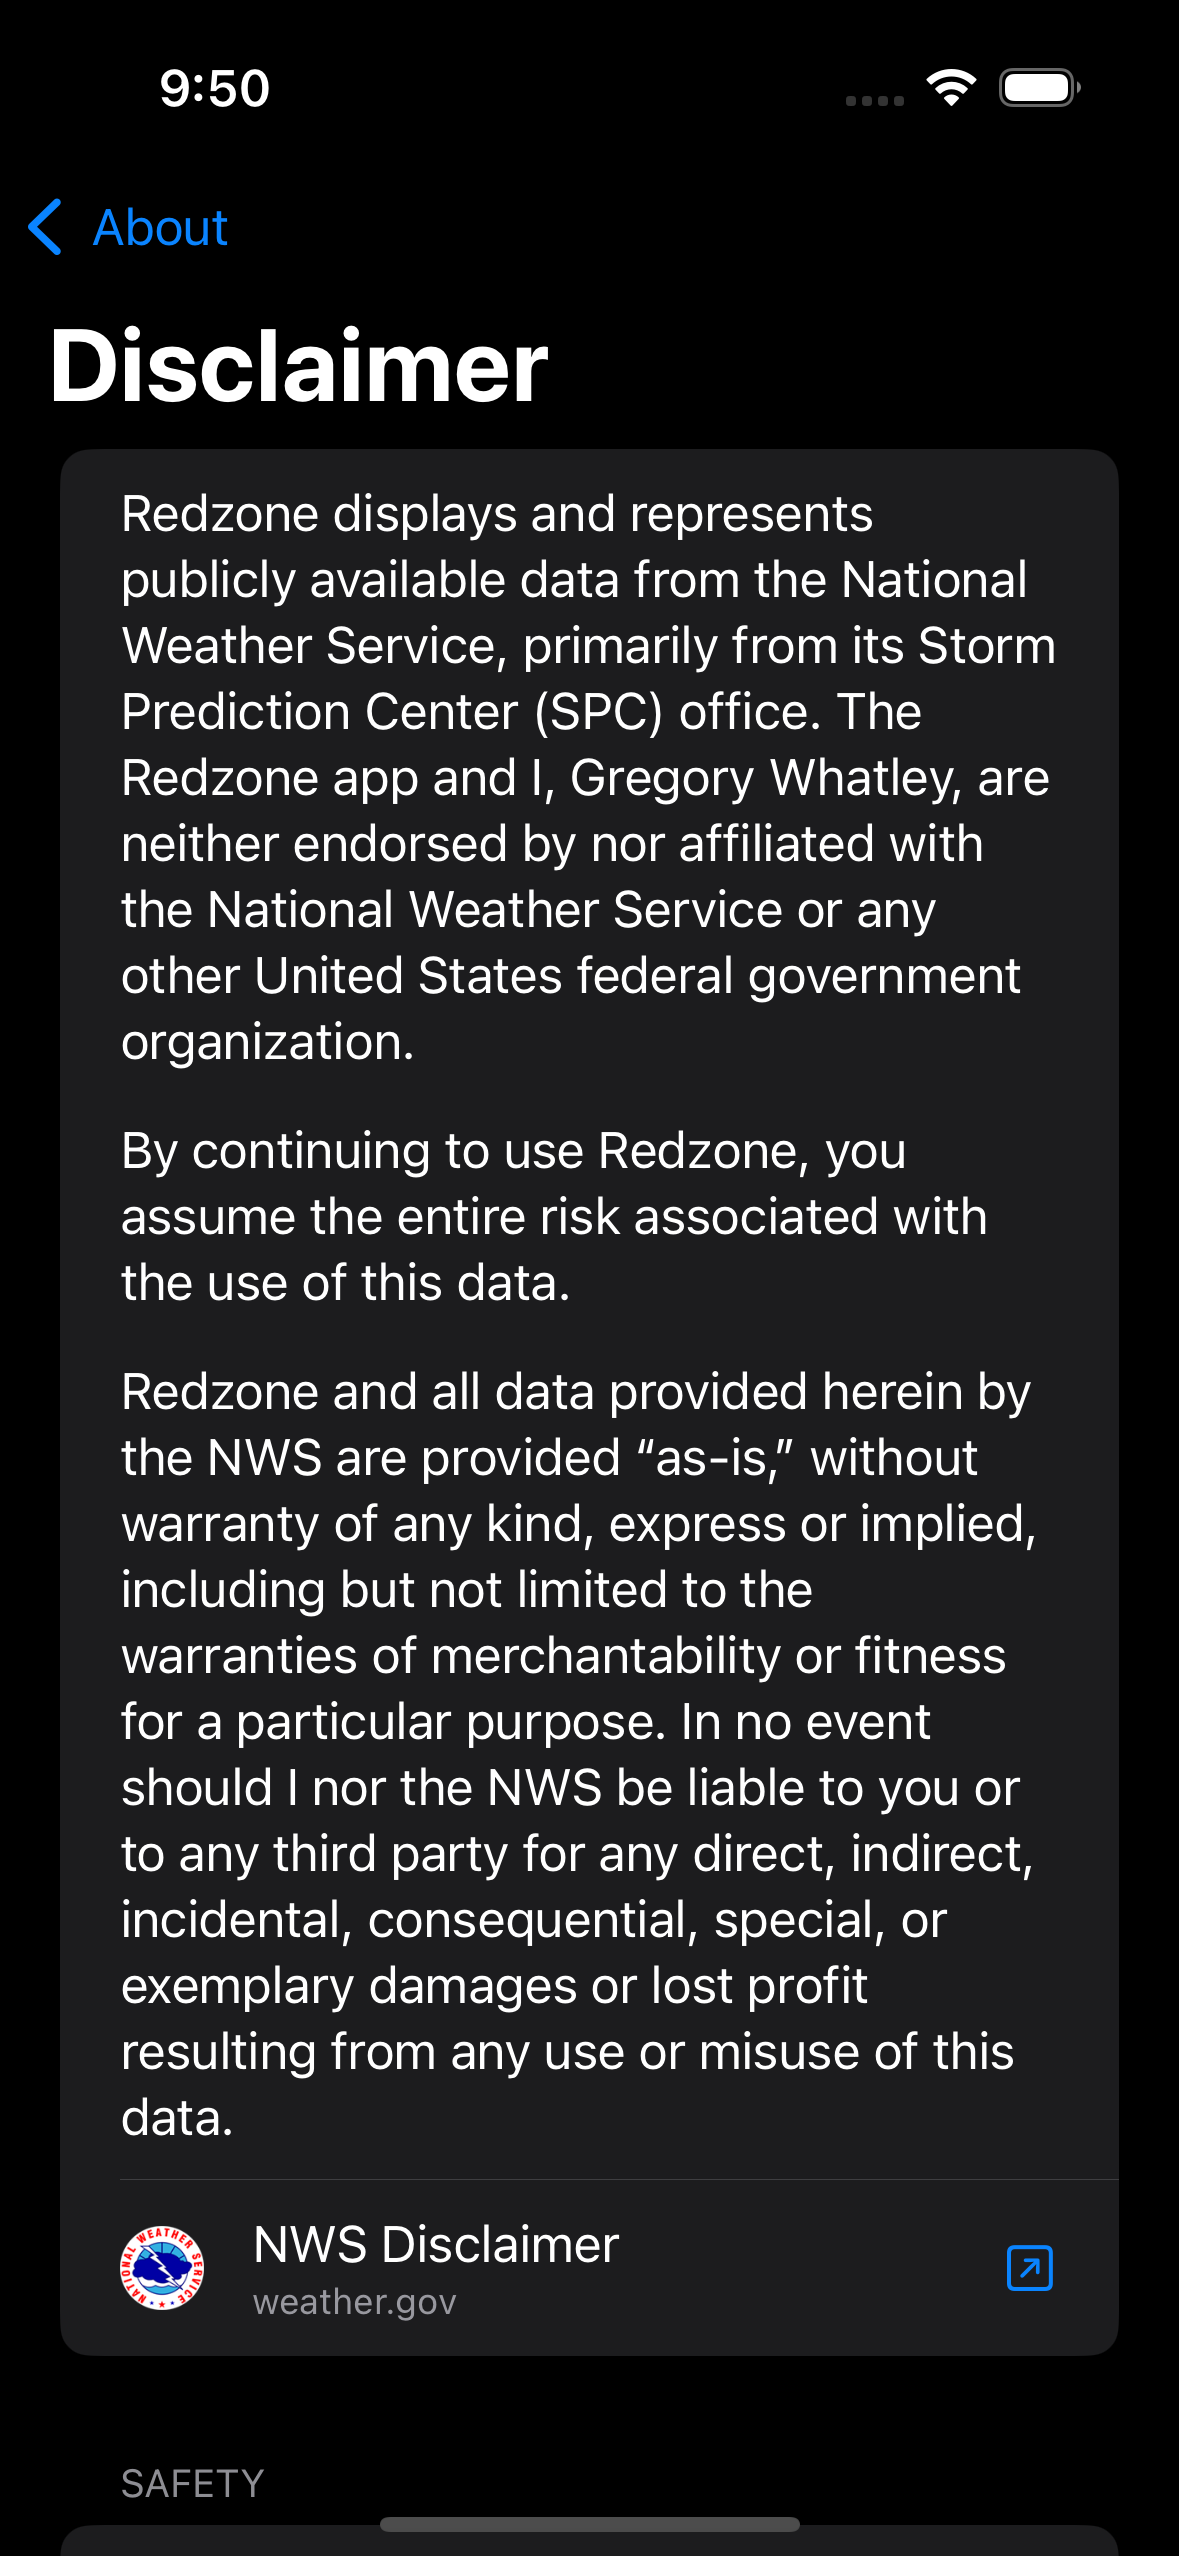
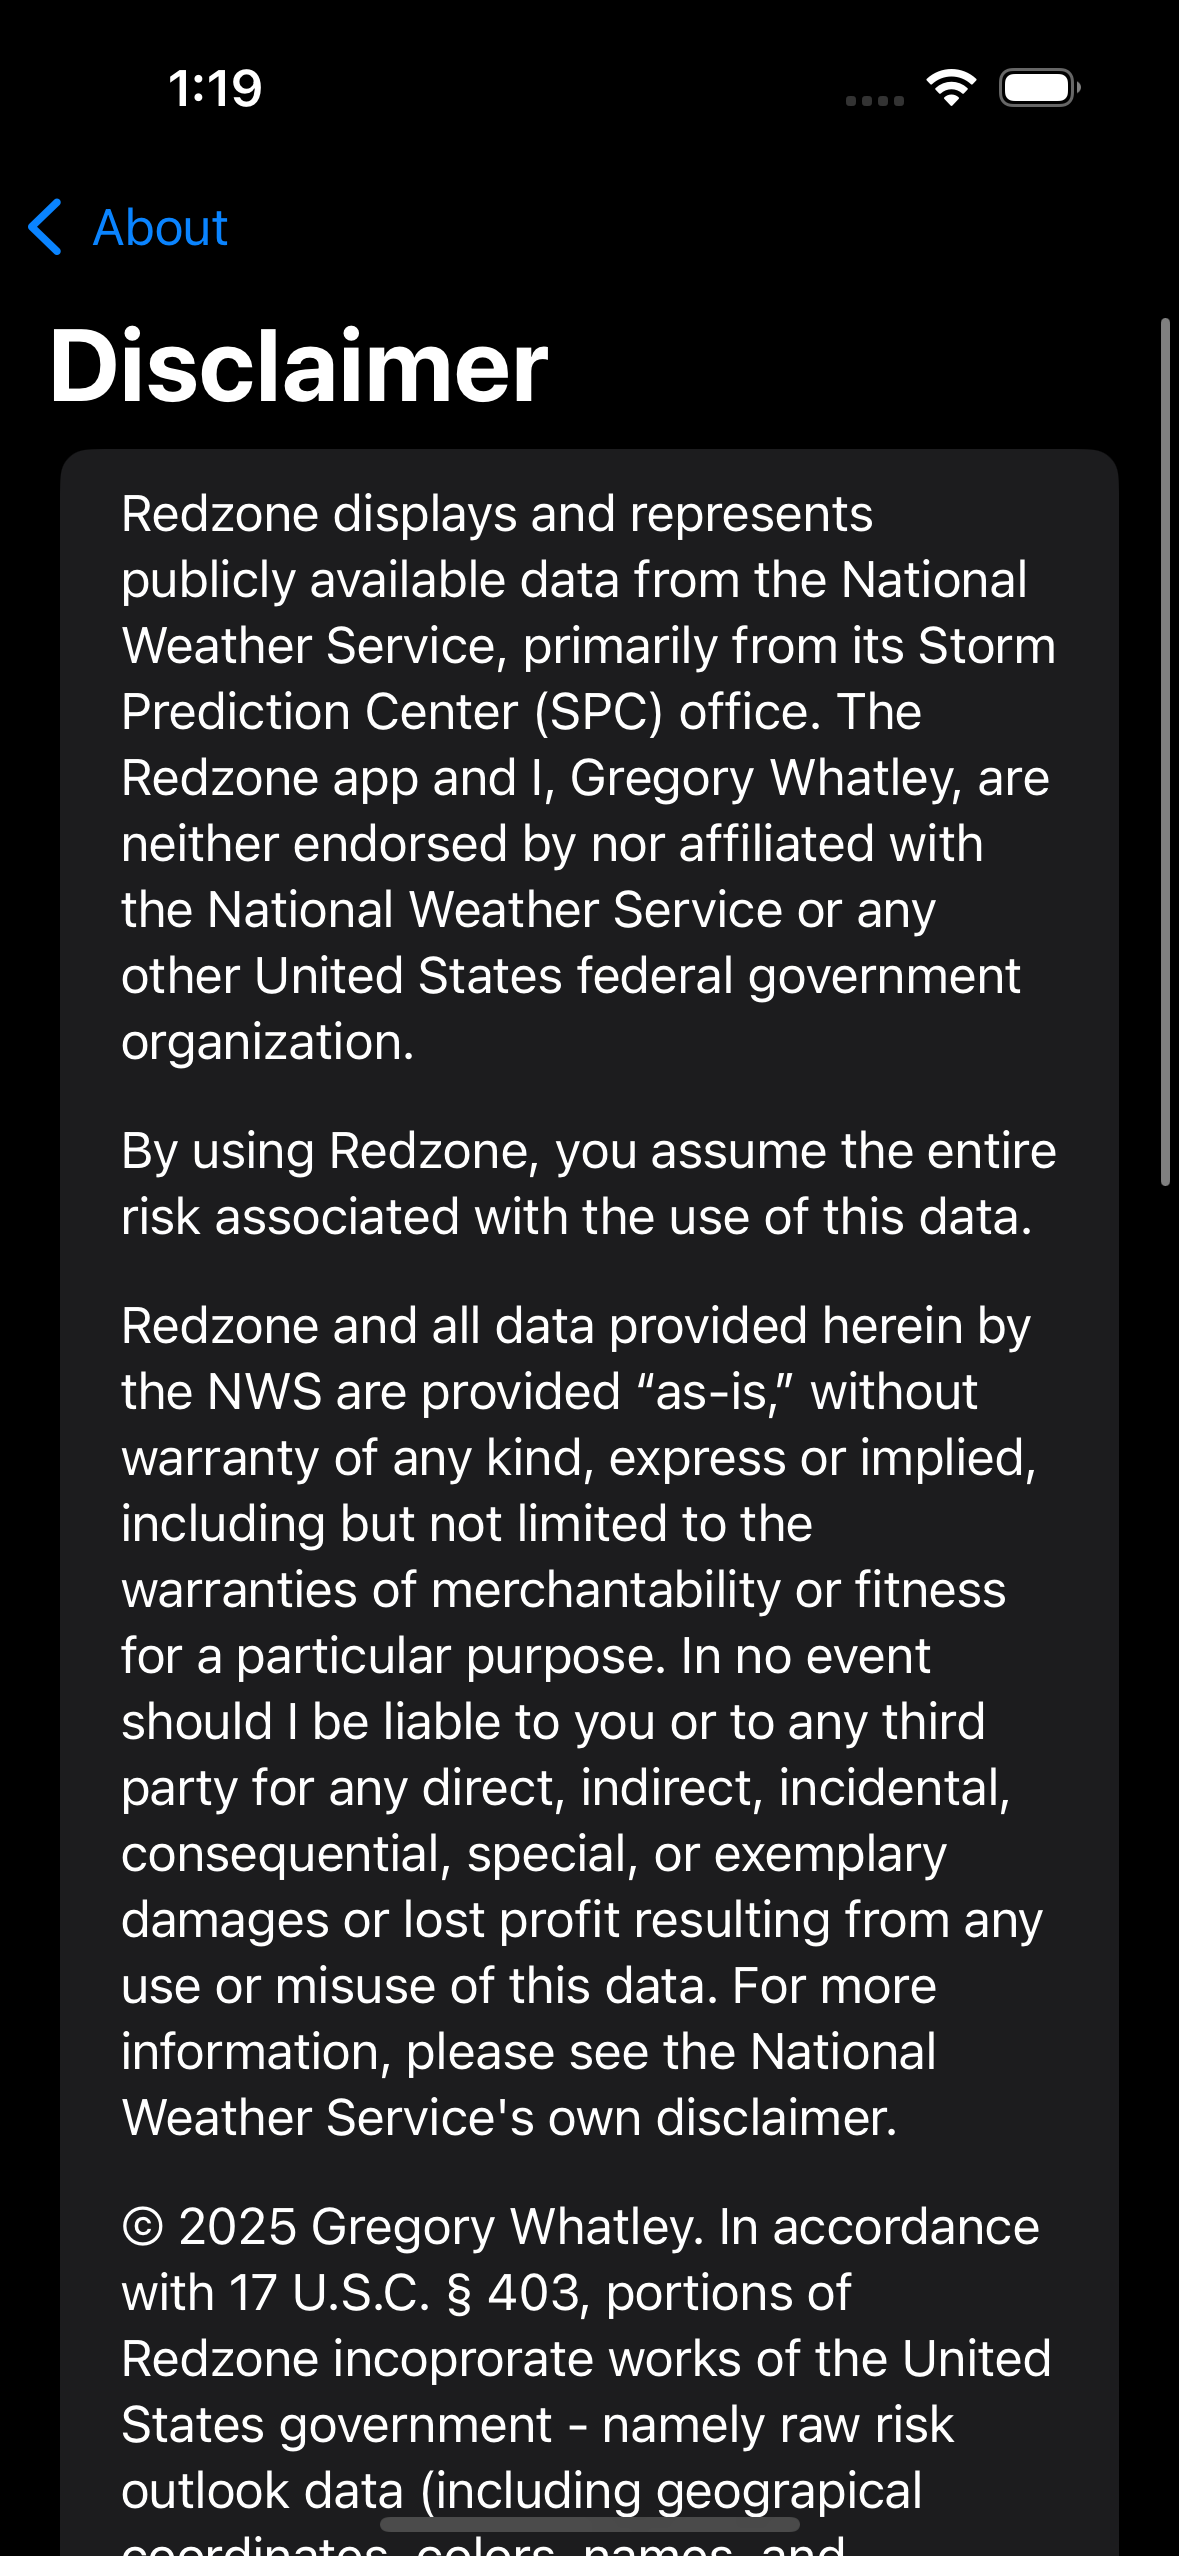
Update legal text to match README (#41)
* Update legal text

* Update Redzone.base.xcconfig

* Clean up string keys

* Use auto generated image resources for links

* update screenshots

* Update Extensions.swift

diff --git a/Redzone-iOS/Redzone/Views/About/DisclaimerView.swift b/Redzone-iOS/Redzone/Views/About/DisclaimerView.swift
@@ -15,30 +15,31 @@ struct DisclaimerView: View {
         List {
             Section {
                 VStack(alignment: .leading, spacing: 16) {
-                    Text("Redzone displays and represents publicly available data from the National Weather Service, primarily from its Storm Prediction Center (SPC) office. The Redzone app and I, Gregory Whatley, are neither endorsed by nor affiliated with the National Weather Service or any other United States federal government organization.")
-                    Text("By continuing to use Redzone, you assume the entire risk associated with the use of this data.")
-                    Text("Redzone and all data provided herein by the NWS are provided “as-is,” without warranty of any kind, express or implied, including but not limited to the warranties of merchantability or fitness for a particular purpose. In no event should I nor the NWS be liable to you or to any third party for any direct, indirect, incidental, consequential, special, or exemplary damages or lost profit resulting from any use or misuse of this data.")
+                    Text(.disclaimerAffiliation)
+                    Text(.disclaimerUse)
+                    Text(.disclaimerLiability)
+                    Text(.disclaimerCopyright)
                 }
                 
-                LabelledLink("NWS Disclaimer", destination: "https://www.weather.gov/disclaimer", image: "NWSLogo")
+                LabelledLink("NWS Disclaimer", destination: "https://www.weather.gov/disclaimer", image: .nwsLogo)
             }
             
             Section("Safety") {
-                Text("Always have a plan and be prepared to take action in the event of severe weather. Use these resources to learn more about weather safety and plan ahead.")
+                Text(.disclaimerSafety)
                 
-                LabelledLink("Safety for All Hazards", destination: "https://www.weather.gov/safety", image: "NWSLogo")
-                LabelledLink("Make a Plan", destination: "https://www.ready.gov/plan", image: "ReadyLogo")
-                LabelledLink("SPC Products", destination: "https://www.spc.noaa.gov/misc/about.html", image: "NOAALogo")
+                LabelledLink("Safety for All Hazards", destination: "https://www.weather.gov/safety", image: .nwsLogo)
+                LabelledLink("Make a Plan", destination: "https://www.ready.gov/plan", image: .readyLogo)
+                LabelledLink("SPC Products", destination: "https://www.spc.noaa.gov/misc/about.html", image: .noaaLogo)
             }
             
             Section("Privacy") {
                 VStack(alignment: .leading, spacing: 16) {
-                    Text("Redzone does not collect and store any of your personal information. You may choose to share your current location with Redzone, which is used to pinpoint your location on the map and provide information about outlooks at your location. This processing is done exclusively on your device. While Lock Screen & Home Screen widgets require location services, the core features of Redzone will remain functional if you choose to not share your location.")
-                    Text("If you interact with an external link from Redzone, the privacy policy of that website will apply.")
+                    Text(.disclaimerPrivacy)
+                    Text(.disclaimerPrivacyExternal)
                 }
                 
-                LabelledLink("NWS Privacy Policy", destination: "https://www.weather.gov/privacy", image: "NWSLogo")
-                LabelledLink("Protecting Your Privacy", destination: "https://www.noaa.gov/protecting-your-privacy", image: "NOAALogo")
+                LabelledLink("NWS Privacy Policy", destination: "https://www.weather.gov/privacy", image: .nwsLogo)
+                LabelledLink("Protecting Your Privacy", destination: "https://www.noaa.gov/protecting-your-privacy", image: .noaaLogo)
             }
         }
         .navigationTitle("Disclaimer")

diff --git a/Redzone-iOS/Redzone/Views/About/AboutView.swift b/Redzone-iOS/Redzone/Views/About/AboutView.swift
@@ -15,7 +15,7 @@ struct AboutView: View {
             Section("Data Source") {
                 Link(destination: URL(string: "https://spc.noaa.gov")!) {
                     HStack {
-                        Image("NWSLogo", bundle: .main)
+                        Image(.nwsLogo)
                             .resizable()
                             .frame(width: 40, height: 40)
                             .accessibilityHidden(true)
@@ -35,7 +35,7 @@ struct AboutView: View {
                 
                 Link(destination: URL(string: "https://noaa.gov")!) {
                     HStack {
-                        Image("NOAALogo", bundle: .main)
+                        Image(.noaaLogo)
                             .resizable()
                             .frame(width: 40, height: 40)
                             .accessibilityHidden(true)
@@ -58,14 +58,14 @@ struct AboutView: View {
                 } label: {
                     Label("Disclaimer", systemImage: "briefcase")
                 }
-                LabelledLink("Safety for All Hazards", destination: "https://www.weather.gov/safety", image: "NWSLogo")
+                LabelledLink("Safety for All Hazards", destination: "https://www.weather.gov/safety", image: .nwsLogo)
             }
             
             RiskLevelLinksView()
             
             Section {
-                LabelledLink("About Me", destination: "https://gregwhatley.dev", image: "Me")
-                LabelledLink("Source Code", destination: "https://github.com/devgregw/Redzone", image: "GitHubLogo")
+                LabelledLink("About Me", destination: "https://gregwhatley.dev", image: .me)
+                LabelledLink("Source Code", destination: "https://github.com/devgregw/Redzone", image: .gitHubLogo)
             }
             
             Section {

diff --git a/Redzone-iOS/Redzone/Views/Common/SafetyLinksSection.swift b/Redzone-iOS/Redzone/Views/Common/SafetyLinksSection.swift
@@ -12,12 +12,12 @@ struct SafetyLinksSection: View {
     
     var body: some View {
         Section("Safety") {
-            LabelledLink("Safety for All Hazards", destination: "https://www.weather.gov/safety", image: "NWSLogo")
+            LabelledLink("Safety for All Hazards", destination: "https://www.weather.gov/safety", image: .nwsLogo)
             if tornado {
-                LabelledLink("About The Enhanced Fujita (EF) Scale", destination: "https://www.spc.noaa.gov/efscale", image: "NOAALogo")
+                LabelledLink("About The Enhanced Fujita (EF) Scale", destination: "https://www.spc.noaa.gov/efscale", image: .noaaLogo)
             }
-            LabelledLink("Make a Plan", destination: "https://www.ready.gov/plan", image: "ReadyLogo")
-            LabelledLink("SPC Products", destination: "https://www.spc.noaa.gov/misc/about.html", image: "NOAALogo")
+            LabelledLink("Make a Plan", destination: "https://www.ready.gov/plan", image: .readyLogo)
+            LabelledLink("SPC Products", destination: "https://www.spc.noaa.gov/misc/about.html", image: .noaaLogo)
         }
     }
 }

diff --git a/Redzone-iOS/Redzone/Core/Extensions.swift b/Redzone-iOS/Redzone/Core/Extensions.swift
@@ -51,3 +51,16 @@ extension OutlookType {
         "\(subSection) • Day \(day)"
     }
 }
+
+// TODO: Remove after Xcode 26 GA
+#if compiler(<6.2)
+extension LocalizedStringResource {
+    static var disclaimerAffiliation: LocalizedStringResource { .init("disclaimerAffiliation") }
+    static var disclaimerUse: LocalizedStringResource { .init("disclaimerUse") }
+    static var disclaimerLiability: LocalizedStringResource { .init("disclaimerLiability") }
+    static var disclaimerCopyright: LocalizedStringResource { .init("disclaimerCopyright") }
+    static var disclaimerSafety: LocalizedStringResource { .init("disclaimerSafety") }
+    static var disclaimerPrivacy: LocalizedStringResource { .init("disclaimerPrivacy") }
+    static var disclaimerPrivacyExternal: LocalizedStringResource { .init("disclaimerPrivacyExternal") }
+}
+#endif

diff --git a/Redzone-iOS/Redzone/Views/RiskDetailView.swift b/Redzone-iOS/Redzone/Views/RiskDetailView.swift
@@ -111,7 +111,7 @@ struct RiskDetailView: View {
                         Label("About This Risk", systemImage: "questionmark.circle")
                     }
                     
-                    LabelledLink("Forecast Discussion", destination: commentaryURL, image: "NOAALogo")
+                    LabelledLink("Forecast Discussion", destination: commentaryURL, image: .noaaLogo)
                 }
                 
                 SafetyLinksSection(tornado: properties.title.contains("Tornado"))

diff --git a/Redzone-iOS/Redzone/Views/Common/LabelledLink.swift b/Redzone-iOS/Redzone/Views/Common/LabelledLink.swift
@@ -12,9 +12,9 @@ struct LabelledLink: View {
     let image: Image
     let destination: URL?
     
-    init(_ title: String, destination: String, image: String) {
+    init(_ title: String, destination: String, image: ImageResource) {
         self.title = title
-        self.image = Image(image, bundle: .main).resizable()
+        self.image = Image(image).resizable()
         self.destination = URL(string: destination)
     }
     
